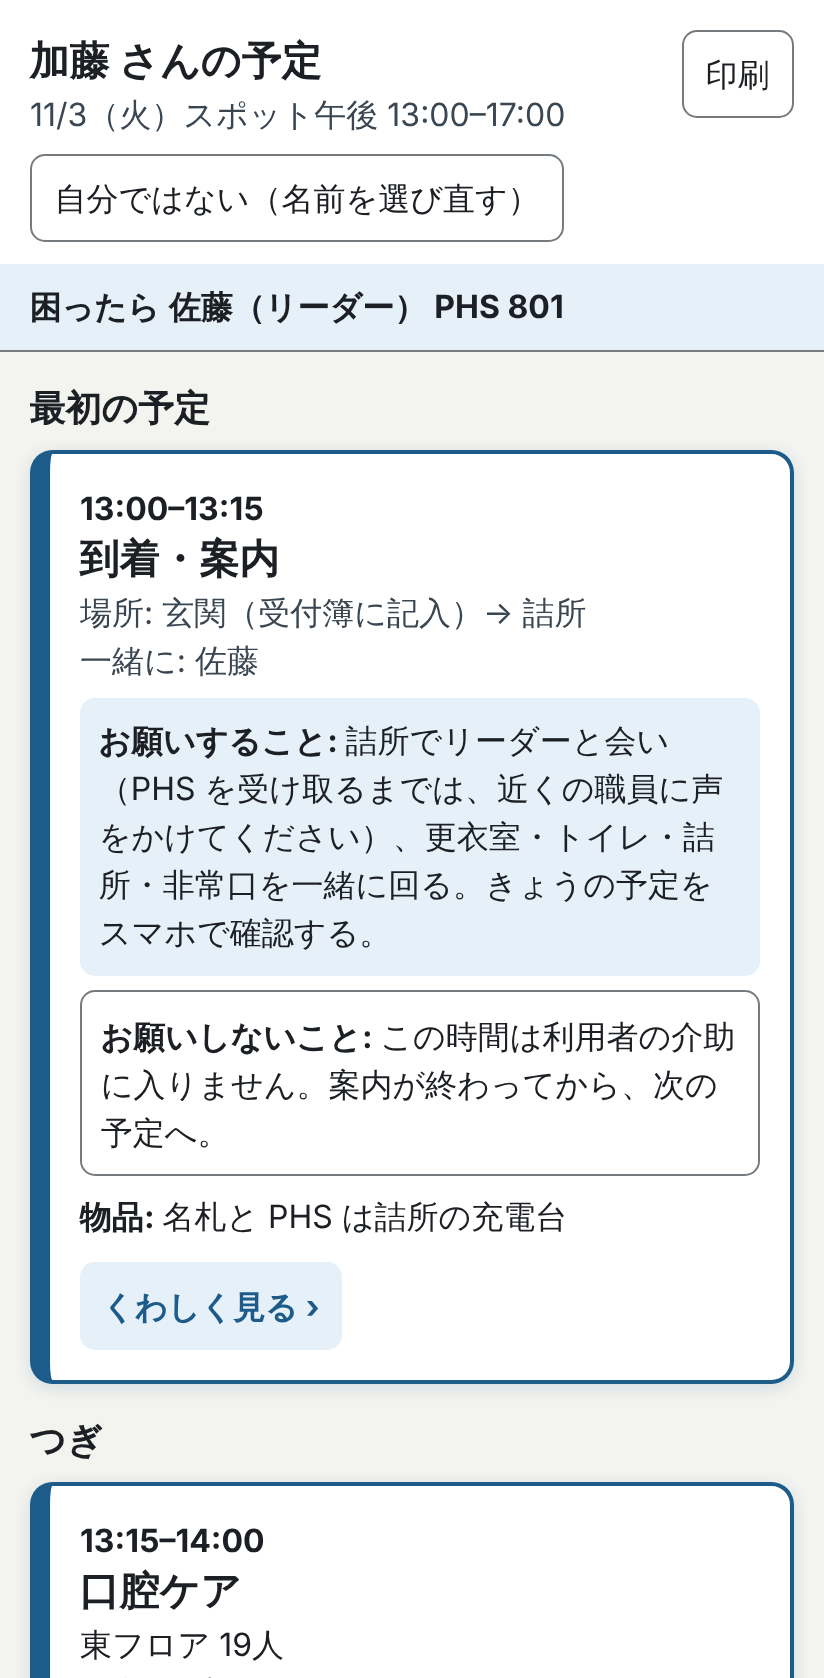
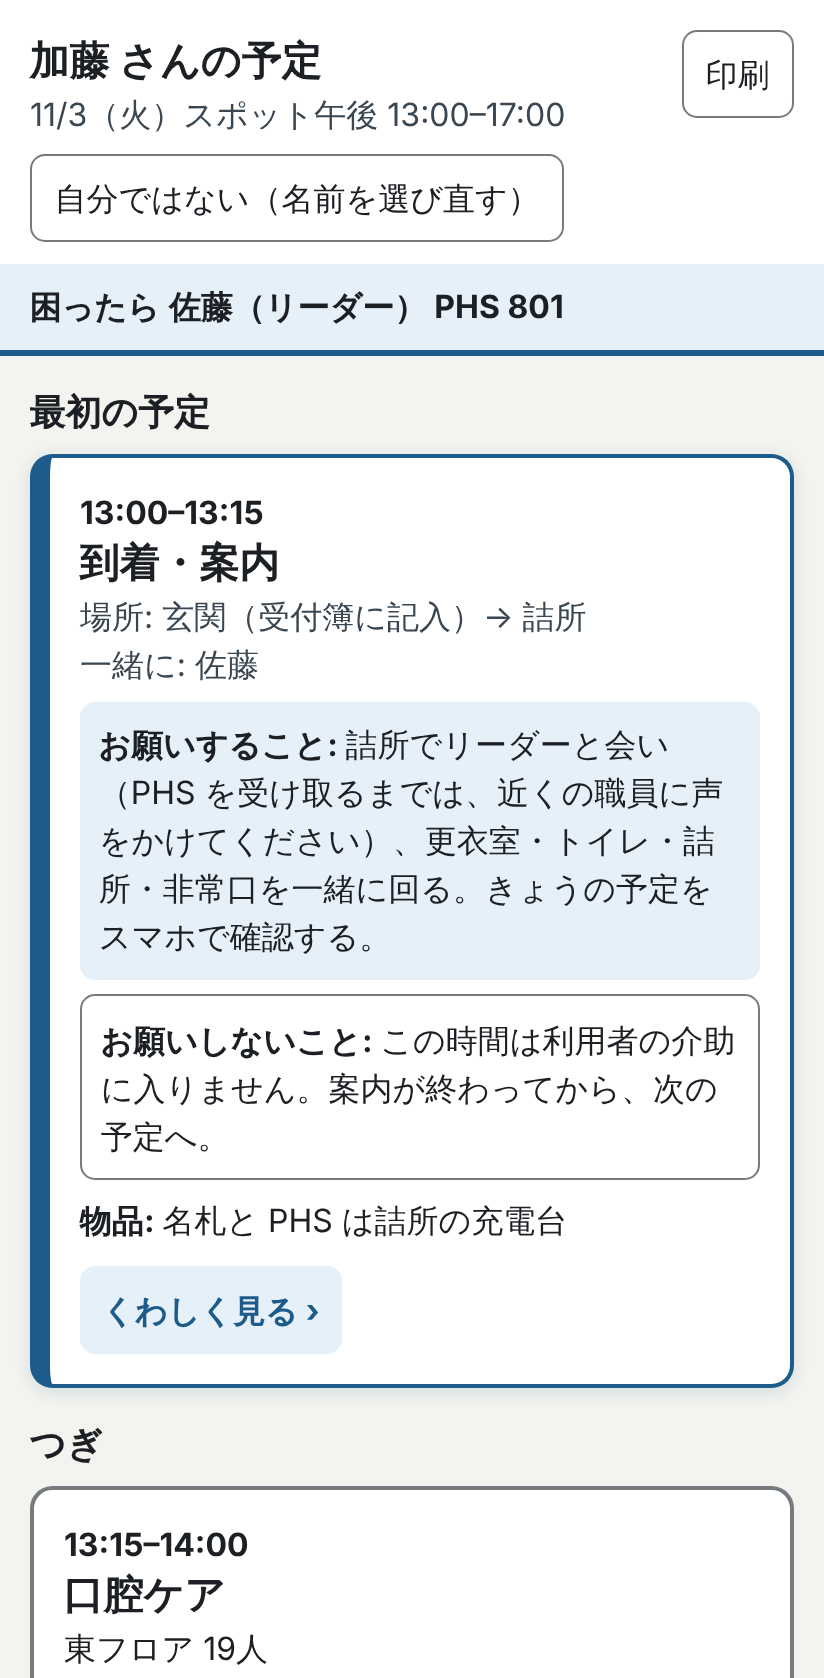
fix(loop18): 暗い画面の「困ったら」の帯を分け、担当あと n 人の地と時刻の線の色を離す、共有端末の説明文、使い方に画面の明るさ、つぎの予定は帯なし、最初の画面の写真を撮り直して暗い画面では少し落とす、ロゴの白をトークンに、0020 の出どころと理由
Claude-Session: https://claude.ai/code/session_011KLHoxTuwFSikg9GJRhKp3

diff --git a/src/app/globals.css b/src/app/globals.css
@@ -38,6 +38,9 @@
   --cn-group-common: #9aa0a6;
   /* 強調の色・時刻の札・トーストの上に置く文字（暗い画面では濃い紺に変わる） */
   --cn-on-accent: #ffffff;
+  /* 「困ったら」の帯（いまの行の色と分ける。ループ 18） */
+  --cn-help-bg: #e6f0f8;
+  --cn-help-line: #1d5c8a;
   color-scheme: light;
 }
 
@@ -58,14 +61,14 @@
     --cn-accent-soft: #1d3a5c;
     --cn-unassigned-bg: #4a2a14;
     --cn-unassigned-ink: #ffcfa6;
-    --cn-short-bg: #3f3512;
+    --cn-short-bg: #5a4a0c;
     --cn-short-ink: #ffe48a;
     --cn-break-bg: #262642;
     --cn-break-ink: #d6d1f5;
     --cn-break-line: #9e96cc;
     --cn-rail-bg: #132439;
     --cn-alert-line: #e8954a;
-    --cn-now: #ff8a5b;
+    --cn-now: #ff6b7a;
     --cn-core: #6fb0ea;
     --cn-noncore: #e0a95a;
     --cn-band-bg: #1f2c3f;
@@ -76,6 +79,8 @@
     --cn-group-4: #d2aa66;
     --cn-group-common: #8a97a8;
     --cn-on-accent: #0b1626;
+  --cn-help-bg: #16263d;
+  --cn-help-line: #8cc4f2;
     color-scheme: dark;
   }
 }
@@ -94,14 +99,14 @@
     --cn-accent-soft: #1d3a5c;
     --cn-unassigned-bg: #4a2a14;
     --cn-unassigned-ink: #ffcfa6;
-    --cn-short-bg: #3f3512;
+    --cn-short-bg: #5a4a0c;
     --cn-short-ink: #ffe48a;
     --cn-break-bg: #262642;
     --cn-break-ink: #d6d1f5;
     --cn-break-line: #9e96cc;
     --cn-rail-bg: #132439;
     --cn-alert-line: #e8954a;
-    --cn-now: #ff8a5b;
+    --cn-now: #ff6b7a;
     --cn-core: #6fb0ea;
     --cn-noncore: #e0a95a;
     --cn-band-bg: #1f2c3f;
@@ -112,8 +117,17 @@
     --cn-group-4: #d2aa66;
     --cn-group-common: #8a97a8;
     --cn-on-accent: #0b1626;
+  --cn-help-bg: #16263d;
+  --cn-help-line: #8cc4f2;
     color-scheme: dark;
   }
+}
+/* 暗い画面では、最初の画面の画面写真（明るい画面のもの）を少し落とす（まぶしくないように。ループ 18） */
+@media screen and (prefers-color-scheme: dark) {
+  :root:not([data-theme="light"]) .cn-shot { filter: brightness(0.82); }
+}
+@media screen {
+  :root[data-theme="dark"] .cn-shot { filter: brightness(0.82); }
 }
 /* 白地・白文字の指定（bg-white など）を、暗い画面ではトークンに置き換える */
 @media screen {

diff --git a/src/components/me/MyDayView.tsx b/src/components/me/MyDayView.tsx
@@ -173,7 +173,7 @@ export function MyDayView({
             {day.upcoming && (
               <>
                 <h2 className="mb-2 mt-4 text-[18px] font-bold">つぎ</h2>
-                <FocusCard item={day.upcoming} open={firstTimer} now={now} />
+                <FocusCard item={day.upcoming} open={firstTimer} now={now} upcoming />
               </>
             )}
           </section>
@@ -270,13 +270,18 @@ function FlowRow({ item, now }: { item: MyItem; now: number }) {
   );
 }
 
-function FocusCard({ item, open, now }: { item: MyItem; open: boolean; now: number }) {
+function FocusCard({ item, open, now, upcoming }: { item: MyItem; open: boolean; now: number; upcoming?: boolean }) {
   const t = item.task;
   const id = `fc-${t.id}`;
   // 読み上げ名は Link の中の文字そのまま（時刻・業務名・中身・「くわしく見る」）。名前と見える文字がずれないように（2.5.3）
   return (
     // いまの時間の予定は左に紺の太い帯（決定記録 0019）。終わった印のあとは薄い枠に戻す
-    <div className={`rounded-xl border-2 bg-white ${item.done ? "border-[var(--cn-card-line)]" : "border-[var(--cn-accent)] border-l-[10px] shadow-[0_2px_8px_rgba(29,92,138,0.15)]"}`}>
+    // 「つぎ」には帯と影を付けない（いまの予定より控えめに。ループ 18）
+    <div
+      className={`rounded-xl border-2 bg-white ${
+        item.done ? "border-[var(--cn-card-line)]" : upcoming ? "border-[var(--cn-control-line)]" : "border-[var(--cn-accent)] border-l-[10px] shadow-[0_2px_8px_rgba(29,92,138,0.15)]"
+      }`}
+    >
     <Link href={meHref(t.id)} className="block p-4">
       <p id={`${id}-time`} className="text-[16px] font-bold">
         {fmtRange(t.startMin, t.endMin)}

diff --git a/src/components/help/Help.tsx b/src/components/help/Help.tsx
@@ -22,6 +22,7 @@ const SECTIONS: { title: string; items: { when: string; how: string; href?: stri
       { when: "欠勤・早退の連絡", how: "ボードの「欠勤・早退」（スマホは［全体］の下）→ 名前を選ぶ →「この内容で決定」。外れた枠は「＋」から埋めます。", href: "/board", go: "ボードを開く" },
       { when: "受診の付き添い・外出", how: "ボードの「付き添い・外出」→ 利用者様と時間を選ぶ →「この内容で決定」。", href: "/board", go: "ボードを開く" },
       { when: "急に来られる人が増えた", how: "ボードの右の「＋ 今日来る人を足す」→ 名前と番 →「この内容で決定」。", href: "/board", go: "ボードを開く" },
+      { when: "夜に画面がまぶしい", how: "設定 →「ふだんの設定」の「画面の明るさ」で「暗い（紺）」。端末を暗い設定にしていれば、何もしなくても暗くなります（端末に合わせる）。この端末を使う全員に効きます。", href: "/setup", go: "設定を開く" },
       { when: "自分のグループだけ・利用者ごとに見たい", how: "ボードの上の「見るグループ」でグループを選ぶ。「横に並べる」を［利用者ごと］にすると、その方ごとの列で時間が見られます（その端末で覚えます）。終わった枠は灰色の地に「✓ 終わった」と出ます。", href: "/board", go: "ボードを開く" },
       { when: "業務の時刻をずらす・中止する", how: "カードの名前を押す → 詳細で「ずらす」「中止」。", href: "/board", go: "ボードを開く" },
     ],

diff --git a/src/app/page.tsx b/src/app/page.tsx
@@ -54,18 +54,18 @@ export default function Home() {
         <figure className="relative pb-10 pr-10 sm:pb-14 sm:pr-16">
           <Image
             src="/shots/board.png"
-            alt="ボード: 縦が時間、横がフロアとユニット。入浴介助に「担当あと1人」、担当の決まっていない枠に「担当未定」が出ている"
-            width={1440}
-            height={900}
+            alt="ボード: 縦が時間、横がフロアとユニット。入浴介助に「担当あと1人」、担当の決まっていない枠に「担当未定」の札が出ている"
+            width={1920}
+            height={1000}
             priority
-            className="w-full rounded-xl border border-[var(--cn-border)] shadow-[0_12px_32px_rgba(28,31,35,0.18)]"
+            className="cn-shot w-full rounded-xl border border-[var(--cn-border)] shadow-[0_12px_32px_rgba(28,31,35,0.18)]"
           />
           <Image
             src="/shots/me.png"
             alt="スマホの自分の予定: 困ったらの相談先、いまの時間の予定、お願いすること・しないこと"
             width={824}
             height={1678}
-            className="absolute bottom-0 right-0 w-[26%] min-w-[110px] rounded-[18px] border-4 border-[var(--cn-ink)] shadow-[0_12px_28px_rgba(28,31,35,0.3)]"
+            className="cn-shot absolute bottom-0 right-0 w-[26%] min-w-[110px] rounded-[18px] border-4 border-[var(--cn-ink)] shadow-[0_12px_28px_rgba(28,31,35,0.3)]"
           />
           <figcaption className="sr-only">ケアナビのボードとスマホの画面（架空の施設「ひまわり苑」）</figcaption>
         </figure>

diff --git a/src/components/setup/Setup.tsx b/src/components/setup/Setup.tsx
@@ -1154,7 +1154,7 @@ function ThemeSection({ choiceClass }: { choiceClass: (on: boolean) => string })
       <h3 id="s-theme" className="mb-1 text-[16px] font-bold">
         画面の明るさ
       </h3>
-      <p className="mb-2 text-[14px] text-[var(--cn-ink-soft)]">夜の詰所でまぶしいときは「暗い」に。この端末だけの設定です（ほかの端末は変わりません）。印刷はいつも明るい色です。</p>
+      <p className="mb-2 text-[14px] text-[var(--cn-ink-soft)]">夜の詰所でまぶしいときは「暗い」に。この端末を使う全員が同じ明るさになります（人ごとではありません。ほかの端末は変わりません）。共有の端末で夜だけ暗くしたいときは「端末に合わせる」にして、端末の側で夜に暗くなるよう設定してください。印刷はいつも明るい色です。</p>
       <div role="group" aria-labelledby="s-theme" className="flex flex-wrap gap-2">
         {options.map((o) => (
           <button

diff --git a/src/components/Logo.tsx b/src/components/Logo.tsx
@@ -7,9 +7,9 @@ export function Logo({ size = 28 }: { size?: number }) {
     <svg width={size} height={size} viewBox="0 0 28 28" aria-hidden="true" focusable="false" className="shrink-0">
       <rect x="0" y="0" width="28" height="28" rx="7" fill="var(--cn-accent)" />
       {/* 時間割の格子 */}
-      <path d="M6 10.5h16M6 16h16M6 21.5h16M11.5 6v16M17 6v16" stroke="#ffffff" strokeOpacity="0.35" strokeWidth="1.2" />
+      <path d="M6 10.5h16M6 16h16M6 21.5h16M11.5 6v16M17 6v16" stroke="var(--cn-on-accent)" strokeOpacity="0.35" strokeWidth="1.2" />
       {/* 人の付いた枠 */}
-      <rect x="11.5" y="10.5" width="5.5" height="5.5" rx="1.2" fill="#ffffff" />
+      <rect x="11.5" y="10.5" width="5.5" height="5.5" rx="1.2" fill="var(--cn-on-accent)" />
       <circle cx="14.25" cy="12.4" r="1.1" fill="var(--cn-accent)" />
       <path d="M12.6 15.2c0.4-1 1-1.4 1.65-1.4s1.25 0.4 1.65 1.4" stroke="var(--cn-accent)" strokeWidth="1" fill="none" strokeLinecap="round" />
     </svg>

diff --git a/src/components/me/HelpBar.tsx b/src/components/me/HelpBar.tsx
@@ -35,7 +35,7 @@ export function contactText(c: LeaderContact | undefined, me: ID): string {
 export function HelpBar({ state, date, me, now }: { state: State; date: string; me: ID; now: number }) {
   const c = leaderContact(state, date, now);
   return (
-    <p className="sticky top-0 z-20 border-b border-[var(--cn-control-line)] bg-[var(--cn-accent-soft)] px-4 py-2.5 text-[16px] print:hidden" role="note">
+    <p className="sticky top-0 z-20 border-b-[3px] border-[var(--cn-help-line)] bg-[var(--cn-help-bg)] px-4 py-2.5 text-[16px] print:hidden" role="note">
       <span className="font-bold">困ったら</span> <span className="font-bold">{contactText(c, me)}</span>
     </p>
   );

diff --git a/README.md b/README.md
@@ -43,7 +43,6 @@ npm run dev        # http://localhost:3000
 
 ## 何ができるか
 
-- **暗い画面（紺）**: 端末が暗い設定なら紺の暗い画面になります。設定の「画面の明るさ」で選べます（その端末だけ。印刷はいつも明るい。決定記録 0020）。
 - **時間割（ボード）**: 縦が時間、横がユニット・フロア（「見るグループ」で 1 つに絞れ、「横に並べる」を［職員ごと］［利用者ごと］に変えられます。決定記録 0017）。終わった印のある枠は灰色の地に「✓ 終わった」。個別（対象1名）・一括（対象複数）・共通（対象なし）・休憩を同じ画面に置き、各枠に施設が決めた必要人数を持たせます。割当が足りない枠は「担当未定」「担当あと n 人」と文字で出ます。
 - **朝は 1 タップ**: 業務はあらかじめ番（早番A・日勤B・介護助手…）に束ねてあります。朝は先週の同じ曜日の番が入った帯で「この内容で作る」を押すだけで、全枠に担当が付きます。介護助手が休みの日は、その番の枠がそのまま「担当未定」で見えます。
 - **割当の操作**: 職員チップをカードへドラッグ、またはカードの「担当を追加」から候補を選びます。候補は「問題なし／注意／勤務外・休み」の3段で、全員に理由が一文付きます。重なり・勤務外・休憩・担当条件・初回の方だけの配置は警告して許可。担当条件（例: 入浴担当可・看護師）は業務の種類に付いています（この版では雛形のまま。業務側の条件を変える画面はありません）。職員ごとには、設定の「職員」で 1 タップで付け外しします。等級や評価は持ちません（決定記録 0011）。職員・利用者は名簿の貼り付けのほか、1 人ずつ足す・直す・退職／退所もできます。ユニット・フロアと番（早番A など）、施設の名前は、設定の「追加・変更」で足す・直すことができます（決定記録 0016）。月の勤務表は Excel の表を設定に貼ると、日付ごとの番として入り、朝の帯がその番で並びます（画像・PDF は読みません。決定記録 0015）。同じ人を同じ業務に二度は入れられません。すべての操作は「元に戻す」で戻せます。
@@ -52,6 +51,7 @@ npm run dev        # http://localhost:3000
 - **「終わった」の印**（決定記録 0010）: 枠ごとに、担当の人かリーダーが 1 タップで「終わった」を付け外しします。時刻が過ぎただけでは付きません。誰が付けたかは画面に出しません。終わりの時刻を過ぎて印の無い枠は、ボードとリーダーの「全体」の見出しに「終わっていない n 件」と出て、押すとその枠へ移ります。
 - **職員ビューと印刷**: 職員×時間で重なり・偏り・誰もいない時間帯を確認。そのまま A4 横の分担表として印刷できます。自分の予定も A4 で印刷できます。
 - **業務の見直し（今週）**: 業務区分（コア／ノンコア）×時間帯の予定時間の図と数値の表、介護助手等の勤務帯との重なり、ノンコアの枠の一覧（番別・枠別）。予定時間ベースで、職員の評価には使いません。判断の言葉は出しません。数字は業務に付け、職員個人の内訳は出しません。業務表はボードの「今日を業務表として保存」で直します。
+- **暗い画面（紺）**: 端末が暗い設定なら紺の暗い画面になります。設定の「画面の明るさ」で選べます（その端末を使う全員に効く。印刷はいつも明るい。決定記録 0020）。
 
 ## 作らないもの（今回）
 

diff --git a/docs/screens.md b/docs/screens.md
@@ -100,7 +100,7 @@
 
 **利用者表示**（「横に並べる」［グループごと｜職員ごと｜利用者ごと］の［利用者ごと］。決定記録 0017、ループ 14）: 見るグループの方を部屋の順に列にし（「すべて」は選べず、利用者のいるユニット→グループを既定にする。選んだグループに利用者がいなければ一文で知らせる）、列の見出しは「201 西村様」（フルネームは title）。その方が対象の個別の枠は普通のカード（終わった枠は灰色の地）。何人かが対象の枠は、その方々の列に同じ 1 枚の写し（業務名・時刻・「n人の枠」・担当の名字か充足の文字）を置き、押すと同じ詳細が開く（担当の追加・「終わった」の印はそこで。写しには＋を出さず、印は「✓ 枠に印」と文字だけで地は灰色にしない: その方の分が終わったとは限らないため）。対象者別担当は作らない。対象の方が決まっていない枠（見守り・共通・休憩など）は出さず、その旨を上に一文。見出しの件数を押すと［グループごと］に戻してから寄せる。
 
-**終わった枠**（決定記録 0010・0017）: 印のある枠はカードの地を灰色・枠を点線・担当のチップを薄く。「✓ 終わった」の文字は残す。時刻が過ぎただけの枠は白のまま。
+**終わった枠**（決定記録 0010・0017・0019）: 印のある枠はカードの地を灰色（暗い画面では地の色）・枠を点線（左は実線）・担当のチップを薄く。「✓ 終わった」の文字は残す。時刻が過ぎただけの枠は白のまま。
 
 **職員表示**（横軸＝職員）: 縦＝職員（名字・番・勤務時間）、横＝時間。担当を帯で描く。勤務外は斜線。休憩は点線の帯。重なりは二重枠と「重なり」の文字。最下段に「見守り」のつながり（空きは「13:00–14:00 担当未定」）。印刷すると分担表（A4横）。
 

diff --git a/docs/decisions/0020-dark-mode.md b/docs/decisions/0020-dark-mode.md
@@ -2,7 +2,11 @@
 
 - 日付: 2026-11-06
 - 状態: 決定。同日に実装
-- 関連: 0019（見た目。ダークモードは見送っていた）、グリル `docs/grills/2026-11-06-dark-mode.md`
+- 関連: 0019（見た目。ダークモードはそのグリルで決めずに残していた分）、グリル `docs/grills/2026-11-06-dark-mode.md`
+
+## 背景
+
+作者の依頼で、紺を地にした暗い画面を入れる。夜勤の詰所は照明を落とすことが多く、明るい画面はまぶしい。
 
 ## 決定
 
@@ -14,7 +18,7 @@
 ## 理由
 
 - 今日のリーダー・夜勤: 夜の詰所で画面がまぶしくない。端末を暗くしている人は何もしなくてよい。
-- 審査員: デモ動画と同じ見た目で試せる。
+- 共有の端末: 設定はその端末を使う全員に効く（人ごとではない）。夜だけ暗くしたいときは「端末に合わせる」＋端末の側の設定で（ループ 18 で説明文に明記）。
 
 ## 見直す条件
 

diff --git a/docs/grills/2026-11-06-dark-mode.md b/docs/grills/2026-11-06-dark-mode.md
@@ -2,7 +2,7 @@
 
 状態: 改修可
 日付: 2026-11-06
-出どころ: 作者「ダークモードは実装しましょう」「デモ動画の紺色のダークモードかっこいいです」。0019 で見送っていた分。
+出どころ: 作者の依頼（紺を地にした暗い画面を入れる）。0019 のグリルで決めずに残していた分。
 
 ## 案
 - 紺を地にした暗い画面。端末の設定（暗い）に合わせ、設定で［端末に合わせる｜明るい｜暗い］を選べる。
